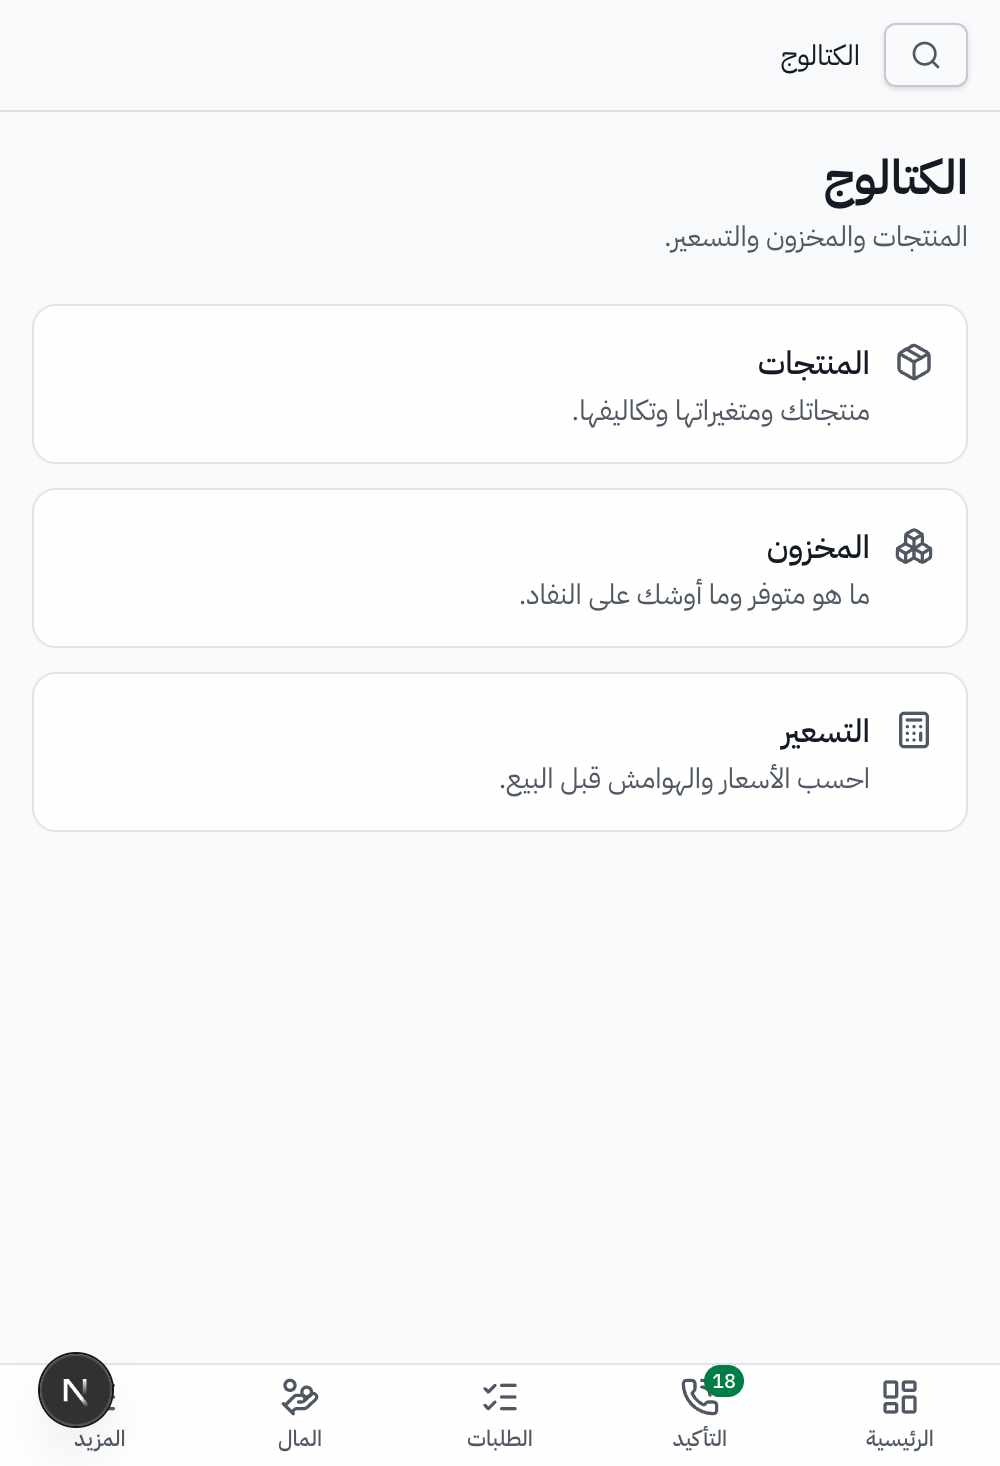
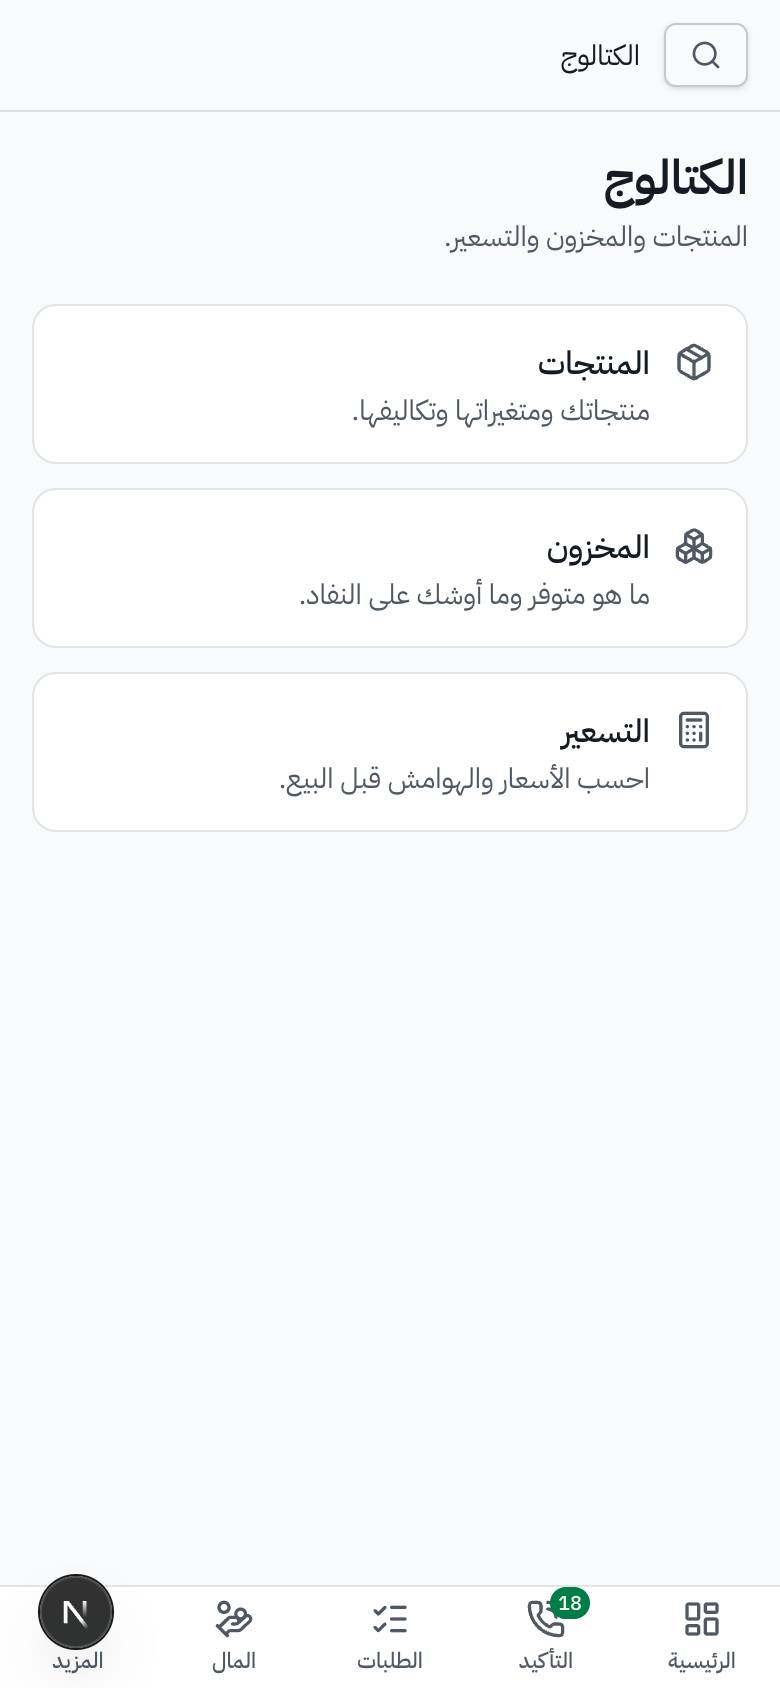
NAV-2-H: retake NAV-2-G screenshots at real 390 px, fix wrong shots, PROGRESS true

diff --git a/PROGRESS.md b/PROGRESS.md
@@ -1141,8 +1141,10 @@ CHART-1 round 4: waterfall removed from Finance overview (five-cost StackedBar, 
 
 ## NAV-2-G
 Bdi removed from crumbs, CrumbList extracted, tail shrink-0, 3 tests added. Matrix in docs/design/audit/NAV-2-G/ (jpeg, 45 shots, browser MCP, admin seed user).
-- Taken: store preview EN+AR x dark+light x 390+1280; long-Arabic-name sweep at 640/700/768 (AR and EN interface, crumb text and title substituted in the browser, shared data untouched; record width 59-165 px, tail always whole, no page scroll, so parents need not shrink up to md); product, product pricing, order, expenses, accounts, store page at EN-dark-1280 (product pages, order, expenses, accounts, store page) and AR-light-390; hubs sell/money/catalog/team at AR-light-390. No console errors on the record pages. Nothing needed fixing.
-- Skips: remaining lang/theme/width combos for non-preview screens, hubs at 1280/EN/dark, confirmation and delivery agent shots (sampled in review 1), long Latin name at 390. Shots taken straight after navigation can precede the client-side record crumb (checked in the DOM instead).
+- Matrix in docs/design/audit/NAV-2-G/ is 31 jpegs (30 + 1 new), browser MCP, admin seed user. Retaken in NAV-2-H: all 14 `-390` files were 1000 px wide (shot at 500 CSS px); they are now a real 390 px viewport (780 px, DPR 2, mobile emulation), product-en-dark-1280 and order-en-dark-1280 (skeleton, no record crumb), and `preview-longname-ar-text-en-light-700` (long name had replaced the group crumb, now the record). New: `preview-longname-latin-en-light-390`. Other five long-name shots opened and correct (record shrinks, group and tail whole).
+- Taken: store preview EN+AR x dark+light x 390+1280; long-name sweep 640/700/768 (AR crumb text, AR and EN interface); product, product pricing, order, expenses, accounts, store page at EN-dark-1280 and AR-light-390; hubs sell/money/catalog/team at AR-light-390. Every retaken shot was waited until no skeleton and the record crumb present (checked in DOM), then opened and checked. No console errors. No code change.
+- Finding: at 390 EN with a long Latin record the parent "Product pages" truncates to "P." (backlog).
+- Skips: lang/theme/width combos outside the matrix for non-preview screens; hubs at 1280, EN and dark; confirmation-agent and delivery-agent shots; missing and inaccessible order pages.
 
 ### NAV-2-G ship
 - Done — Arabic record crumbs keep their start (no `<bdi>` under `dir="auto"`); the tail shows whole and only the record gives way; 3 tests added.

diff --git a/docs/BACKLOG.md b/docs/BACKLOG.md
@@ -58,3 +58,4 @@ CONF-3 · customer score queries · consider reuse of scoped delivery statistics
 - Bounding the series in SQL for a far-future placed_at needs a migration (kpi_daily still computes to the last order day); also reject absurd webhook placed_at. From CHART-1-B.
 - Agent "Show closed" button takes its own row at 390 px (NAV-2 review 3 #6, later UI pass).
 - NAV-2 review 3 missing tests: GroupHub leaf set / redirect / counts; page title key = sidebar key.
+- Breadcrumb at 390 with a long Latin record name: parent crumb collapses to "P." (preview page, EN). From NAV-2-H.
